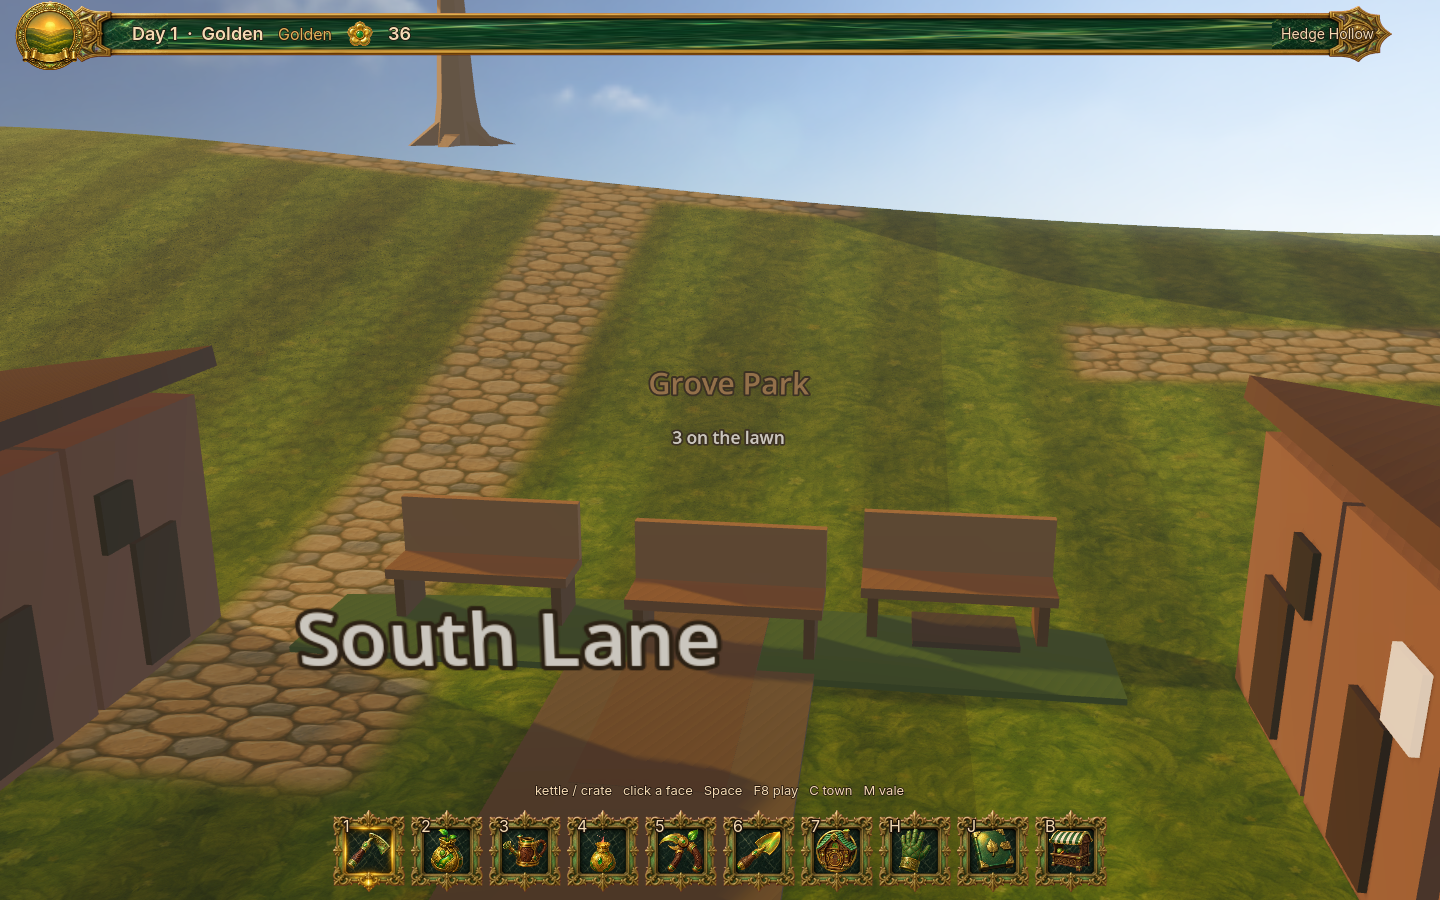
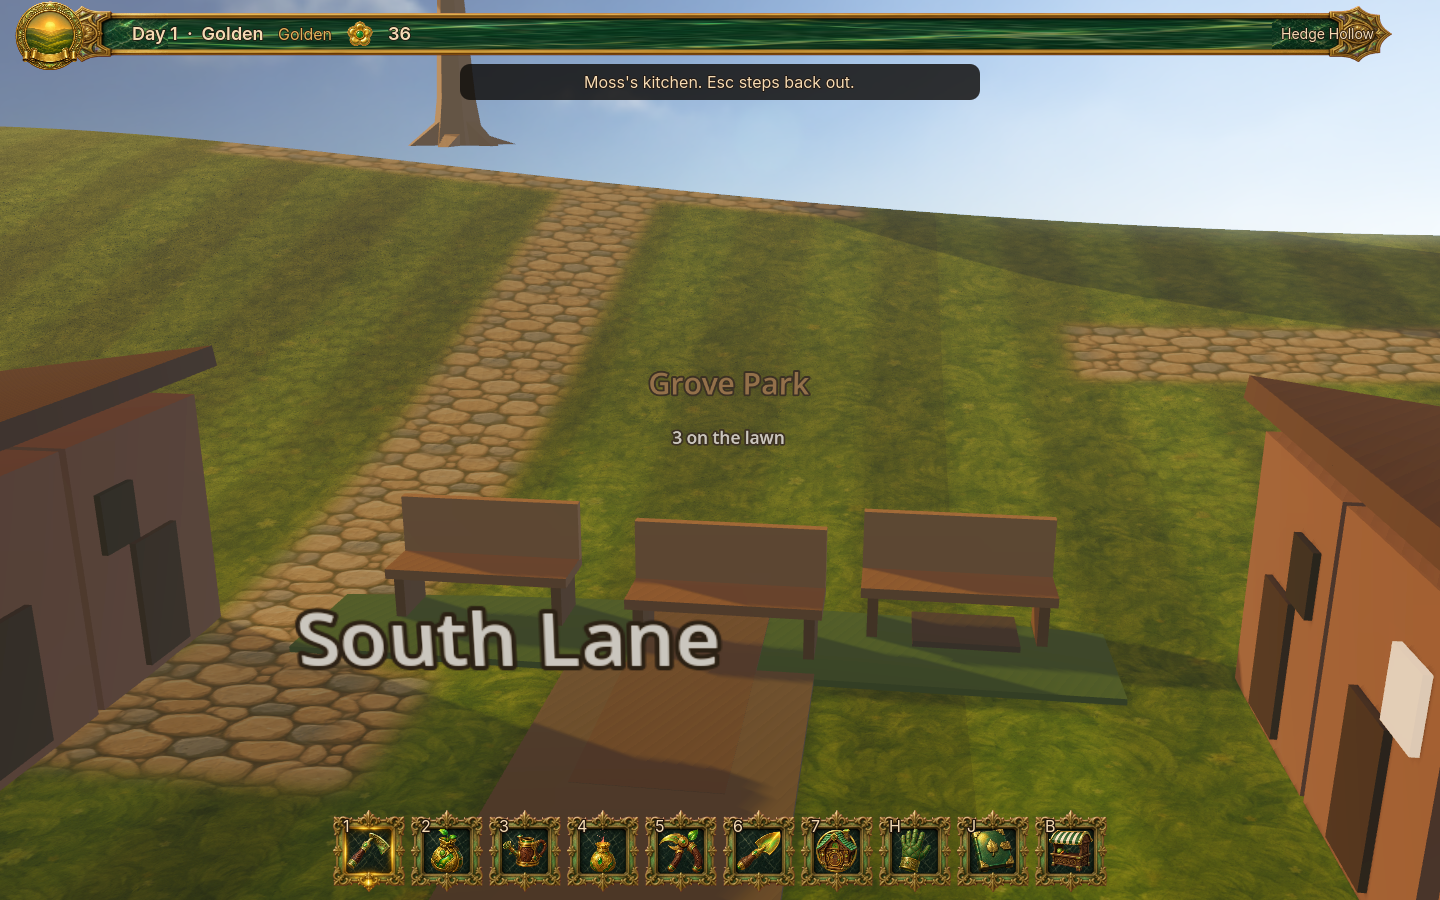
Open the near cottage into a kitchen.
Enter, while the camera is near the first South Lane door, hides the shell and stands inside with that household. Esc returns to the lane. The town shot quits unless the kitchen opens and then closes.

Changed region(s): [[0.3125, 0.0622, 0.6875, 0.1244], [0.375, 0.8711, 0.625, 0.9022]]

diff --git a/docs/CURRENT_STATE.md b/docs/CURRENT_STATE.md
@@ -24,7 +24,7 @@ Pass 2 from `petal/08-integration` is in this tree: inspect snack, pouch feed, h
 Approved jelly cut-outs (`assets/art/images/PETAL-08-101/`) are the resting card. Hunger, a grab, a poke, or a throw shows a shaded gel icon: one body, two black vertical eyes, a small highlight. The eyes stay unshaded so the sun does not grey them out. The icon tips toward the camera.
 Sign-off CAM_06 still stages its own `SignoffJelly` card.
 Grove Park, once Nessa files it, is a lawn with benches and one worn walk from the lawn to the hedge gate. Lumen and Bram walk through that gate to the grass and stay there. `grove_park.active` stays false.
-When the road rumour is filed, six cottages stand on South Lane between the gate and the lawn. Occupied houses light a window. If the camera is near the gate, the first household (a tomato folk, surname from the lane record) stands at that door. Farther houses stay counts. `grove_park.active` stays false.
+When the road rumour is filed, six cottages stand on South Lane between the gate and the lawn. Occupied houses light a window. If the camera is near the gate, the first household (a tomato folk, surname from the lane record) stands at that door. Enter, while the camera is near that cottage, steps into the kitchen. Esc steps back out. Farther houses stay counts. `grove_park.active` stays false.
 
 ## ACTIVE AGENTS
 
@@ -47,7 +47,7 @@ Executive on this branch. No other agent is writing this tree in this run.
 2026-09-29, Godot 4.8-dev6, llvmpipe, `DISPLAY=:1`.
 
 - `./tools/petal_qa.sh` → `PETAL_QA_SCRIPTS_OK` on this tip.
-- `PETAL_TOWN_SHOT=1` → `PETAL_TOWN_SHOT_OK`. The shot quits if the near cottage has no body.
+- `PETAL_TOWN_SHOT=1` → `PETAL_TOWN_SHOT_OK`. The shot quits if the near cottage has no body, if Enter does not open the kitchen, or if Esc leaves the room open.
 - `PETAL_KETTLE_SHOT=1` → `PETAL_KETTLE_SHOT_OK`. The brew plate quits if the kettle leaves the frame.
 - `PETAL_JELLY_PLAY=1` → `JELLY_PLAY_OK`. Hungry plate shows the gel sphere and both black eyes.
 - `PETAL_RESIDENT_SHOT=1` → `PETAL_RESIDENT_SHOT_OK`. Bram, Lumen, and Bellhelp still read on the lawn.
@@ -71,6 +71,8 @@ Executive on this branch. No other agent is writing this tree in this run.
 
 `docs/screenshots/south_lane.png` (1440×900). The near cottage has a lit window and a tomato household at the door. The sign reads South Lane. Grove Park is beyond the path.
 
+`docs/screenshots/cottage_inside.png` (1440×900). Enter opened the near cottage. Moss stands in the kitchen by the table. The line reads “Moss's kitchen. Esc steps back out.”
+
 ## KNOWN REGRESSIONS
 
 - `main` does not boot the campaign garden.
@@ -86,7 +88,7 @@ One playable original-IP garden a person can tend, feed, and throw, reading as a
 1. Keep the resting cut-out for a fed idle jelly. The gel icon is hunger and a grab.
 2. When this suite stays green, open a PR from this garden onto `main`. Do not push `main` from the agent.
 3. Leave `grove_park.active` false until Nessa's existing filing. Do not add another east-chain stone.
-4. `PETAL_RESIDENT_SHOT_OK` still shows Bram, Lumen, and Bellhelp on the lawn. Next playable space is one cottage interior from the door the household already stands at.
+4. The kitchen is one room. Next is a second piece of furniture that reads in that same frame, then the other cottages stay closed.
 5. Cherry-pick neon status icons only if they sit on the icon and leave the eyes visible.
 
 ## DO NOT REBUILD

diff --git a/docs/CAMPAIGN_BOARD.md b/docs/CAMPAIGN_BOARD.md
@@ -9,13 +9,13 @@ Playable Hedge Hollow on `petal/09-art-rescue`, continued on `cursor/playable-je
 - Tend the four beds. Feed a jelly from a ripe plant or the pouch.
 - Grab, nuzzle, throw. A fed idle jelly shows the approved cut-out. Hunger or a grab shows a shaded gel icon with two black eyes.
 - Stall, jam, tea, journal. Vale map on M. Town page on C.
-- Grove Park opens after the road rumour and Nessa's filing. Lumen and Bram walk through the hedge gate and stay on the grass. South Lane puts six cottages on that path when the rumour is filed. A near camera stands one tomato household at the first door. Catalog stays `active: false`.
+- Grove Park opens after the road rumour and Nessa's filing. Lumen and Bram walk through the hedge gate and stay on the grass. South Lane puts six cottages on that path when the rumour is filed. A near camera stands one tomato household at the first door. Enter steps into that kitchen. Esc steps back out. Catalog stays `active: false`.
 
 ## NEXT
 
 - `PETAL_QA_SCRIPTS_OK`, `JELLY_PLAY_OK`, and `PETAL_RESIDENT_SHOT_OK` are green on this tip (2026-09-29). The park frame shows the gate, the lawn, Bellhelp, and both veg folk.
 - Cherry-pick neon status icons (`cursor/jelly-status-icons-ffcb`) only if they sit on the icon and leave the eyes visible.
-- `PETAL_TOWN_SHOT_OK` shows a tomato household at the near cottage door.
+- `PETAL_TOWN_SHOT_OK` shows the door household, then Moss in the kitchen, then the lawn again.
 - `kettle_brew.png` keeps the brewing kettle and its steam in frame.
 - `jam_pan.png` now shows the copper pan, the jam, and the steam. The shed wall is behind it.
 - Point `main` at this garden when the suite stays green. Do not replay the east-chain.
